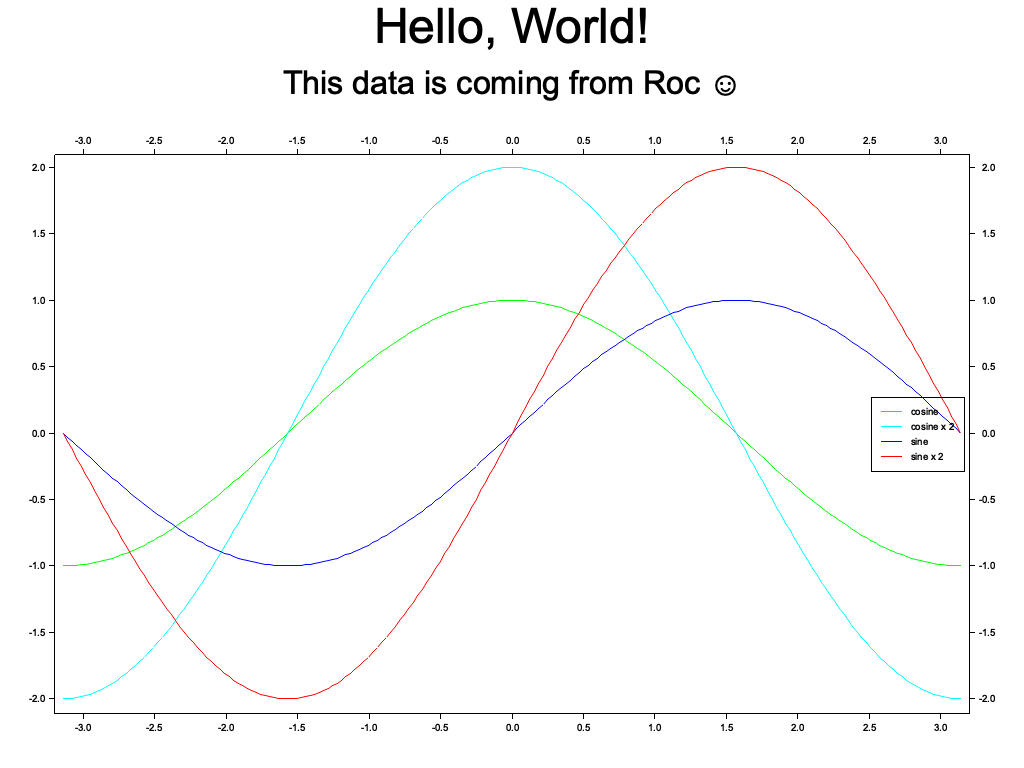
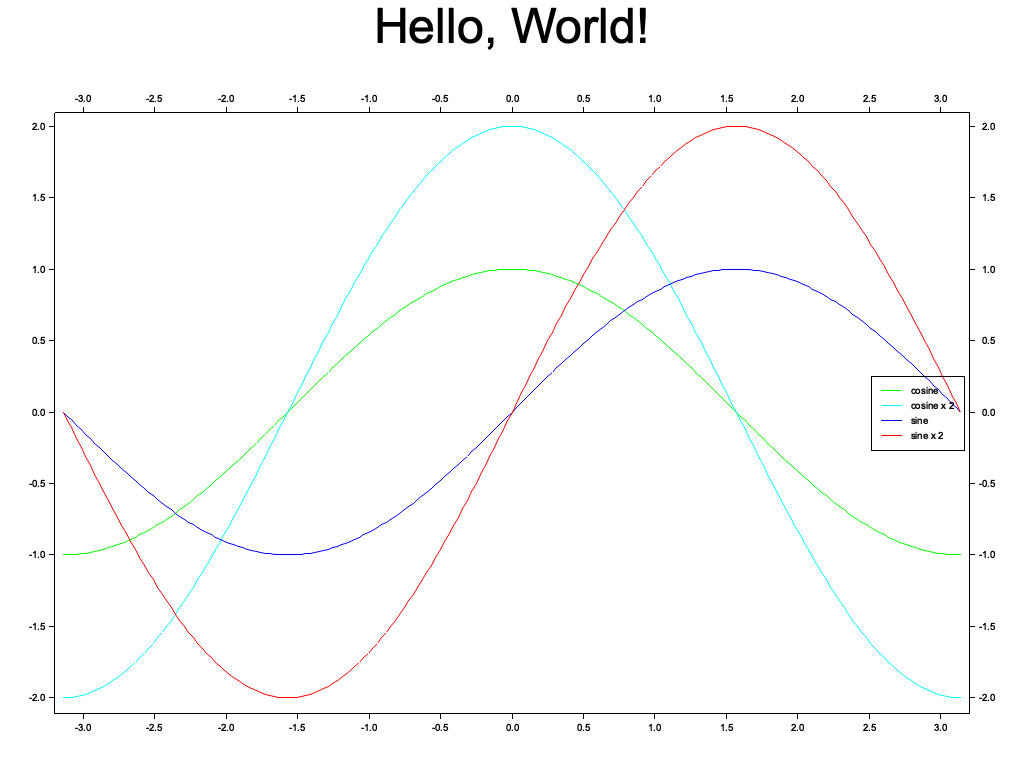
Parametrize formatting variables

diff --git a/platform/src/plot.rs b/platform/src/plot.rs
@@ -19,8 +19,28 @@ fn construct_area<Backend: DrawingBackend>(
 ) -> Result<DrawingArea<Backend, Shift>, DrawingAreaErrorKind<Backend::ErrorType>> {
     let area = backend.into_drawing_area();
     area.fill(&WHITE)?;
-    let area = area.titled(config.title.as_str(), ("sans-serif", 60))?;
+    let area = area.titled(
+        config.title.as_str(),
+        (config.fonts.titleFamily.as_str(), config.fonts.titleSize),
+    )?;
     Ok(area)
+}
+
+fn construct_builder<'a, Backend: DrawingBackend>(
+    area: &'a DrawingArea<Backend, Shift>,
+    config: &'a Config,
+) -> ChartBuilder<'a, 'a, Backend> {
+    let subtitle = config.subtitle.as_str();
+    let mut builder = ChartBuilder::on(area);
+    builder.margin(config.layout.chartMargin)
+        .set_all_label_area_size(config.layout.labelArea);
+    if subtitle.len() > 0 {
+        builder.caption(
+            config.subtitle.as_str(),
+            (config.fonts.subtitleFamily.as_str(), config.fonts.subtitleSize),
+        );
+    }
+    return builder;
 }
 
 fn construct_bitmap_backend(config: &Config) -> BitMapBackend {
@@ -42,26 +62,26 @@ fn plot_with<Backend: DrawingBackend>(
     config: &Config,
 ) -> Result<(), DrawingAreaErrorKind<Backend::ErrorType>> {
     let area = construct_area(backend, config)?;
-    let mut cc = ChartBuilder::on(&area)
-        .margin(5)
-        .set_all_label_area_size(50)
-        .caption(config.subtitle.as_str(), ("sans-serif", 40))
-        .build_cartesian_2d(-3.2f64..3.2f64, -2.1f64..2.1f64)?;
-    cc.configure_mesh()
-        .x_labels(20)
-        .y_labels(10)
+    let mut builder = construct_builder(&area, config);
+    let mut context = builder.build_cartesian_2d(
+        config.bounds.xMin..config.bounds.xMax,
+        config.bounds.yMin..config.bounds.yMax,
+    )?;
+    context.configure_mesh()
+        .x_labels(config.labels.xCount)
+        .y_labels(config.labels.yCount)
         .disable_mesh()
-        .x_label_formatter(&|v| format!("{:.1}", v))
-        .y_label_formatter(&|v| format!("{:.1}", v))
+        .x_label_formatter(&|v| format!("{:?}", v)) // TODO: Format labels in Roc.
+        .y_label_formatter(&|v| format!("{:?}", v)) // TODO: Format labels in Roc.
         .draw()?;
     for line in config.lines.iter() {
         let v: Vec<(f64, f64)> = line.points.iter().map(|point| (point.x, point.y)).collect();
         let color = RGBColor(line.color.r, line.color.g, line.color.b);
-        cc.draw_series(LineSeries::new(v, color))?
+        context.draw_series(LineSeries::new(v, color))?
             .label(line.name.as_str())
             .legend(move |(x, y)| PathElement::new(vec![(x, y), (x + 20, y)], color));
     }
-    cc.configure_series_labels().border_style(&BLACK).draw()?;
+    context.configure_series_labels().border_style(&BLACK).draw()?;
     area.present().unwrap_or_else(|_| {
         panic!(
             "I failed to draw your plot to {} !",

diff --git a/platform/src/config.rs b/platform/src/config.rs
@@ -9,10 +9,42 @@ pub struct P2 {
 
 #[derive(Default, Debug, Copy, Clone)]
 #[repr(C)]
+pub struct Bounds {
+    pub xMax: f64,
+    pub xMin: f64,
+    pub yMax: f64,
+    pub yMin: f64,
+}
+
+#[derive(Default, Debug, Copy, Clone)]
+#[repr(C)]
 pub struct Color {
     pub b: u8,
     pub g: u8,
     pub r: u8,
+}
+
+#[derive(Default, Debug)]
+#[repr(C)]
+pub struct Fonts {
+    pub subtitleFamily: RocStr,
+    pub titleFamily: RocStr,
+    pub subtitleSize: u32,
+    pub titleSize: u32,
+}
+
+#[derive(Default, Debug)]
+#[repr(C)]
+pub struct Labels {
+    pub xCount: usize,
+    pub yCount: usize,
+}
+
+#[derive(Default, Debug)]
+#[repr(C)]
+pub struct Layout {
+    pub chartMargin: u32,
+    pub labelArea: u32,
 }
 
 #[derive(Default, Debug)]
@@ -26,11 +58,15 @@ pub struct Line {
 #[derive(Default, Debug)]
 #[repr(C)]
 pub struct Config {
+    pub bounds: Bounds,
+    pub fonts: Fonts,
+    pub labels: Labels,
     pub lines: RocList<Line>,
     pub output_file_path: RocStr,
     pub subtitle: RocStr,
     pub title: RocStr,
     pub height: u32,
+    pub layout: Layout,
     pub width: u32,
 }
 
